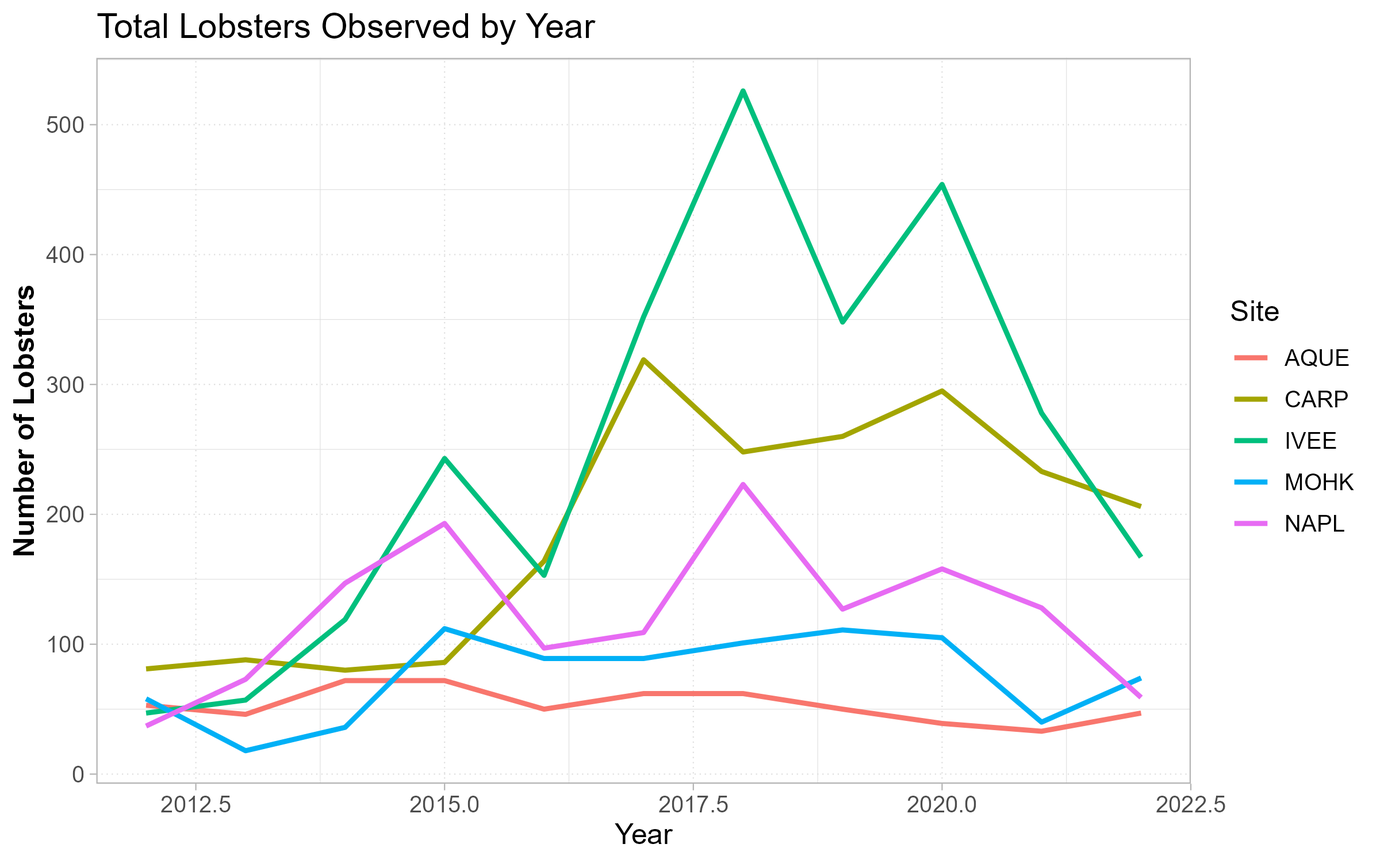
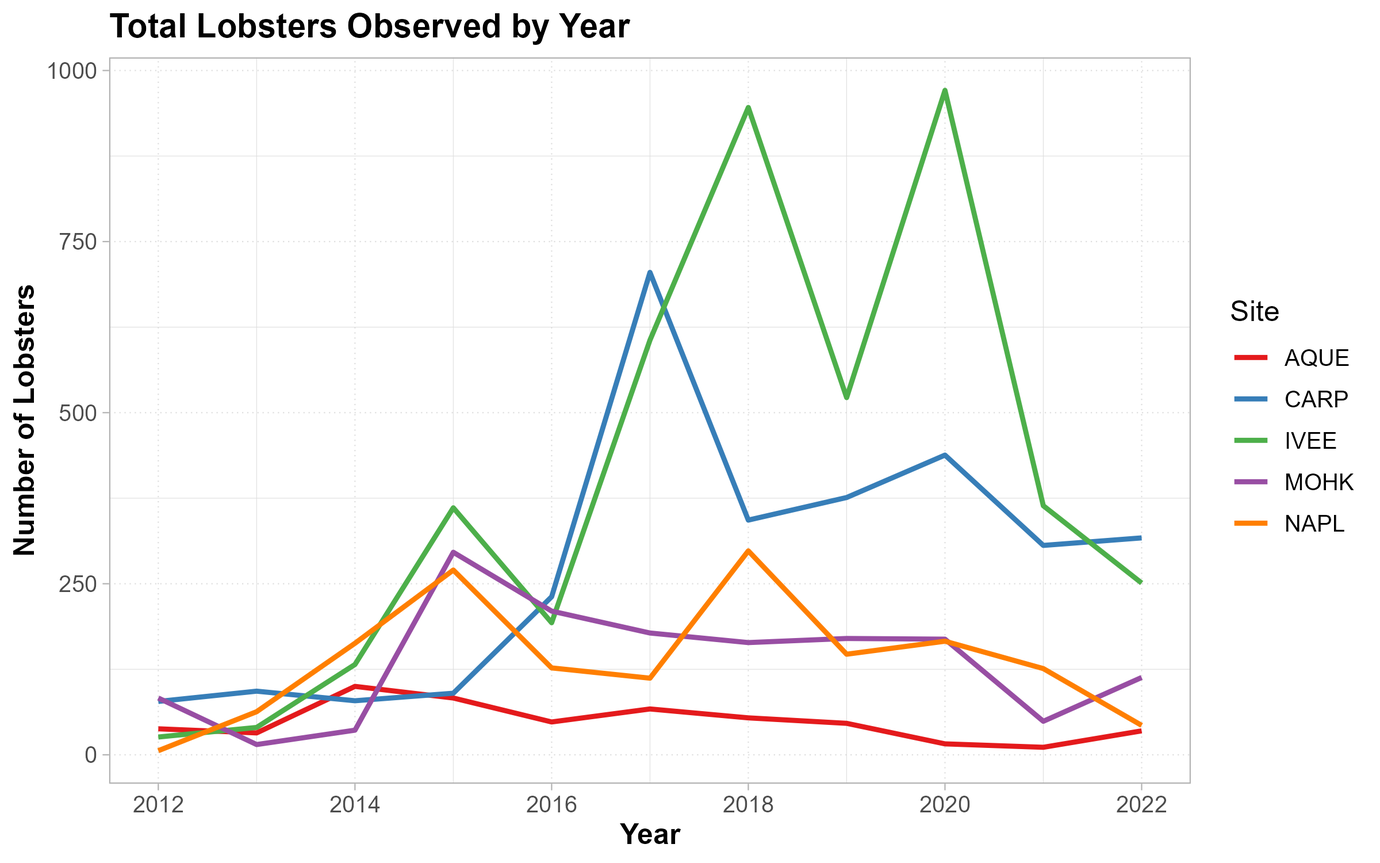
committing owner analysis

diff --git a/analysis/owner-analysis.html b/analysis/owner-analysis.html
@@ -209,68 +209,60 @@ $ AREA      &lt;dbl&gt; 300, 300, 300, 300, 300, 300, 300, 300, 300, 300, 300, 3
 </div>
 <div class="cell">
 <div class="code-copy-outer-scaffold"><div class="sourceCode cell-code" id="cb19"><pre class="sourceCode r code-with-copy"><code class="sourceCode r"><span id="cb19-1"><a href="#cb19-1" aria-hidden="true" tabindex="-1"></a>lobster_abundance <span class="ot">&lt;-</span> lobster_abundance <span class="sc">%&gt;%</span></span>
-<span id="cb19-2"><a href="#cb19-2" aria-hidden="true" tabindex="-1"></a>  <span class="fu">mutate</span>(<span class="at">SIZE_MM =</span> <span class="fu">na_if</span>(SIZE_MM, <span class="sc">-</span><span class="dv">99999</span>))</span></code></pre></div><button title="Copy to Clipboard" class="code-copy-button"><i class="bi"></i></button></div>
+<span id="cb19-2"><a href="#cb19-2" aria-hidden="true" tabindex="-1"></a>  <span class="fu">mutate</span>(<span class="at">SIZE_MM =</span> <span class="fu">na_if</span>(SIZE_MM, <span class="sc">-</span><span class="dv">99999</span>))</span>
+<span id="cb19-3"><a href="#cb19-3" aria-hidden="true" tabindex="-1"></a><span class="fu">unique</span>(lobster_abundance<span class="sc">$</span>SIZE_MM)</span></code></pre></div><button title="Copy to Clipboard" class="code-copy-button"><i class="bi"></i></button></div>
+<div class="cell-output cell-output-stdout">
+<pre><code>  [1]    NA  70.0  60.0  65.0  85.0  67.0  52.0  64.0  58.0  62.0  86.0 105.0
+ [13]  57.0  53.0  56.0  83.0  75.0  90.0  55.0  63.0  72.0  66.0  68.0  87.0
+ [25]  77.0  78.0  80.0  88.0  89.0  95.0  76.0  82.0  61.0  81.0  92.0  74.0
+ [37]  71.0 156.0  98.0  47.0  84.0 110.0  79.0  54.0 108.0  48.0  93.0 100.0
+ [49]  73.0  59.0  97.0  96.0  99.0  69.0  35.0  30.0  45.0  50.0  25.0 102.0
+ [61] 112.0  28.0  38.0 103.0 107.0  40.0  42.0  46.0 118.0 120.0  49.0 122.0
+ [73] 109.0  94.0  51.0  32.0  37.0 115.0 104.0 165.0  70.2  74.5  18.0  43.0
+ [85]  91.0 150.0 101.0  41.0  68.8 106.0 154.0 125.0 155.0 183.0 114.0 111.0
+ [97] 193.0 116.0 113.0 171.0 123.0 160.0 145.0 117.0 124.0 128.0  72.5 132.0
+[109] 135.0 170.0  33.0  44.0 136.0 220.0 141.0 126.0 131.0 130.0 146.0 127.0</code></pre>
+</div>
 </div>
 <div class="cell">
-<div class="code-copy-outer-scaffold"><div class="sourceCode cell-code" id="cb20"><pre class="sourceCode r code-with-copy"><code class="sourceCode r"><span id="cb20-1"><a href="#cb20-1" aria-hidden="true" tabindex="-1"></a>no_napl <span class="ot">&lt;-</span> lobster_abundance <span class="sc">%&gt;%</span></span>
-<span id="cb20-2"><a href="#cb20-2" aria-hidden="true" tabindex="-1"></a>  <span class="fu">filter</span>(SITE <span class="sc">!=</span> <span class="st">"NAPL"</span>)</span>
-<span id="cb20-3"><a href="#cb20-3" aria-hidden="true" tabindex="-1"></a><span class="fu">unique</span>(no_napl<span class="sc">$</span>SITE)</span></code></pre></div><button title="Copy to Clipboard" class="code-copy-button"><i class="bi"></i></button></div>
+<div class="code-copy-outer-scaffold"><div class="sourceCode cell-code" id="cb21"><pre class="sourceCode r code-with-copy"><code class="sourceCode r"><span id="cb21-1"><a href="#cb21-1" aria-hidden="true" tabindex="-1"></a>no_napl <span class="ot">&lt;-</span> lobster_abundance <span class="sc">%&gt;%</span></span>
+<span id="cb21-2"><a href="#cb21-2" aria-hidden="true" tabindex="-1"></a>  <span class="fu">filter</span>(SITE <span class="sc">!=</span> <span class="st">"NAPL"</span>)</span>
+<span id="cb21-3"><a href="#cb21-3" aria-hidden="true" tabindex="-1"></a><span class="fu">unique</span>(no_napl<span class="sc">$</span>SITE)</span></code></pre></div><button title="Copy to Clipboard" class="code-copy-button"><i class="bi"></i></button></div>
 <div class="cell-output cell-output-stdout">
 <pre><code>[1] "IVEE" "AQUE" "CARP" "MOHK"</code></pre>
 </div>
 </div>
 <div class="cell">
-<div class="code-copy-outer-scaffold"><div class="sourceCode cell-code" id="cb22"><pre class="sourceCode r code-with-copy"><code class="sourceCode r"><span id="cb22-1"><a href="#cb22-1" aria-hidden="true" tabindex="-1"></a>aque_large <span class="ot">&lt;-</span> lobster_abundance <span class="sc">%&gt;%</span></span>
-<span id="cb22-2"><a href="#cb22-2" aria-hidden="true" tabindex="-1"></a>  <span class="fu">filter</span>(SITE <span class="sc">==</span> <span class="st">"AQUE"</span>, SIZE_MM <span class="sc">&gt;</span> <span class="dv">70</span>)</span>
-<span id="cb22-3"><a href="#cb22-3" aria-hidden="true" tabindex="-1"></a><span class="fu">summary</span>(aque_large<span class="sc">$</span>SIZE_MM)</span></code></pre></div><button title="Copy to Clipboard" class="code-copy-button"><i class="bi"></i></button></div>
+<div class="code-copy-outer-scaffold"><div class="sourceCode cell-code" id="cb23"><pre class="sourceCode r code-with-copy"><code class="sourceCode r"><span id="cb23-1"><a href="#cb23-1" aria-hidden="true" tabindex="-1"></a>aque_large <span class="ot">&lt;-</span> lobster_abundance <span class="sc">%&gt;%</span></span>
+<span id="cb23-2"><a href="#cb23-2" aria-hidden="true" tabindex="-1"></a>  <span class="fu">filter</span>(SITE <span class="sc">==</span> <span class="st">"AQUE"</span>, SIZE_MM <span class="sc">&gt;</span> <span class="dv">70</span>)</span>
+<span id="cb23-3"><a href="#cb23-3" aria-hidden="true" tabindex="-1"></a><span class="fu">summary</span>(aque_large<span class="sc">$</span>SIZE_MM)</span></code></pre></div><button title="Copy to Clipboard" class="code-copy-button"><i class="bi"></i></button></div>
 <div class="cell-output cell-output-stdout">
 <pre><code>   Min. 1st Qu.  Median    Mean 3rd Qu.    Max. 
   71.00   75.00   80.00   80.41   85.00  109.00 </code></pre>
 </div>
-<div class="code-copy-outer-scaffold"><div class="sourceCode cell-code" id="cb24"><pre class="sourceCode r code-with-copy"><code class="sourceCode r"><span id="cb24-1"><a href="#cb24-1" aria-hidden="true" tabindex="-1"></a><span class="fu">unique</span>(aque_large<span class="sc">$</span>SITE)</span></code></pre></div><button title="Copy to Clipboard" class="code-copy-button"><i class="bi"></i></button></div>
+<div class="code-copy-outer-scaffold"><div class="sourceCode cell-code" id="cb25"><pre class="sourceCode r code-with-copy"><code class="sourceCode r"><span id="cb25-1"><a href="#cb25-1" aria-hidden="true" tabindex="-1"></a><span class="fu">unique</span>(aque_large<span class="sc">$</span>SITE)</span></code></pre></div><button title="Copy to Clipboard" class="code-copy-button"><i class="bi"></i></button></div>
 <div class="cell-output cell-output-stdout">
 <pre><code>[1] "AQUE"</code></pre>
 </div>
 </div>
 <div class="cell">
-<div class="code-copy-outer-scaffold"><div class="sourceCode cell-code" id="cb26"><pre class="sourceCode r code-with-copy"><code class="sourceCode r"><span id="cb26-1"><a href="#cb26-1" aria-hidden="true" tabindex="-1"></a>max_size <span class="ot">&lt;-</span> lobster_abundance <span class="sc">%&gt;%</span></span>
-<span id="cb26-2"><a href="#cb26-2" aria-hidden="true" tabindex="-1"></a>  <span class="fu">group_by</span>(SITE, MONTH) <span class="sc">%&gt;%</span></span>
-<span id="cb26-3"><a href="#cb26-3" aria-hidden="true" tabindex="-1"></a>  <span class="fu">summarise</span>(<span class="at">max_size =</span> <span class="fu">max</span>(SIZE_MM, <span class="at">na.rm =</span> <span class="cn">TRUE</span>))</span></code></pre></div><button title="Copy to Clipboard" class="code-copy-button"><i class="bi"></i></button></div>
-<div class="cell-output cell-output-stderr">
-<pre><code>`summarise()` has regrouped the output.
-ℹ Summaries were computed grouped by SITE and MONTH.
-ℹ Output is grouped by SITE.
-ℹ Use `summarise(.groups = "drop_last")` to silence this message.
-ℹ Use `summarise(.by = c(SITE, MONTH))` for per-operation grouping
-  (`?dplyr::dplyr_by`) instead.</code></pre>
-</div>
-<div class="code-copy-outer-scaffold"><div class="sourceCode cell-code" id="cb28"><pre class="sourceCode r code-with-copy"><code class="sourceCode r"><span id="cb28-1"><a href="#cb28-1" aria-hidden="true" tabindex="-1"></a><span class="fu">head</span>(max_size)</span></code></pre></div><button title="Copy to Clipboard" class="code-copy-button"><i class="bi"></i></button></div>
-<div class="cell-output cell-output-stdout">
-<pre><code># A tibble: 6 × 3
-# Groups:   SITE [4]
-  SITE  MONTH max_size
-  &lt;chr&gt; &lt;dbl&gt;    &lt;dbl&gt;
-1 AQUE      8      109
-2 AQUE      9      100
-3 CARP      8      183
-4 IVEE      8      193
-5 IVEE      9      107
-6 MOHK      8      110</code></pre>
-</div>
+<div class="code-copy-outer-scaffold"><div class="sourceCode cell-code" id="cb27"><pre class="sourceCode r code-with-copy"><code class="sourceCode r"><span id="cb27-1"><a href="#cb27-1" aria-hidden="true" tabindex="-1"></a>max_size <span class="ot">&lt;-</span> lobster_abundance <span class="sc">%&gt;%</span></span>
+<span id="cb27-2"><a href="#cb27-2" aria-hidden="true" tabindex="-1"></a>  <span class="fu">group_by</span>(SITE, MONTH) <span class="sc">%&gt;%</span></span>
+<span id="cb27-3"><a href="#cb27-3" aria-hidden="true" tabindex="-1"></a>  <span class="fu">summarise</span>(<span class="at">max_size =</span> <span class="fu">max</span>(SIZE_MM, <span class="at">na.rm =</span> <span class="cn">TRUE</span>), <span class="at">.groups =</span> <span class="st">"drop"</span>)</span></code></pre></div><button title="Copy to Clipboard" class="code-copy-button"><i class="bi"></i></button></div>
 </div>
 </section>
 <section id="exercise-data-visualization" class="level2">
 <h2 class="anchored" data-anchor-id="exercise-data-visualization">Exercise: Data Visualization</h2>
 <div class="cell">
-<div class="code-copy-outer-scaffold"><div class="sourceCode cell-code" id="cb30"><pre class="sourceCode r code-with-copy"><code class="sourceCode r"><span id="cb30-1"><a href="#cb30-1" aria-hidden="true" tabindex="-1"></a><span class="do">## Run this chunk to test exercises ##</span></span>
-<span id="cb30-2"><a href="#cb30-2" aria-hidden="true" tabindex="-1"></a></span>
-<span id="cb30-3"><a href="#cb30-3" aria-hidden="true" tabindex="-1"></a><span class="fu">library</span>(readr)</span>
-<span id="cb30-4"><a href="#cb30-4" aria-hidden="true" tabindex="-1"></a><span class="fu">library</span>(dplyr)</span>
-<span id="cb30-5"><a href="#cb30-5" aria-hidden="true" tabindex="-1"></a><span class="fu">library</span>(ggplot2)</span>
-<span id="cb30-6"><a href="#cb30-6" aria-hidden="true" tabindex="-1"></a><span class="fu">library</span>(tidyr)</span>
-<span id="cb30-7"><a href="#cb30-7" aria-hidden="true" tabindex="-1"></a></span>
-<span id="cb30-8"><a href="#cb30-8" aria-hidden="true" tabindex="-1"></a>lobster_abundance <span class="ot">&lt;-</span> <span class="fu">read_csv</span>(<span class="st">"../data/Lobster_Abundance_All_Years_20220829.csv"</span>) <span class="sc">%&gt;%</span></span>
-<span id="cb30-9"><a href="#cb30-9" aria-hidden="true" tabindex="-1"></a>  <span class="fu">mutate</span>(<span class="at">SIZE_MM =</span> <span class="fu">na_if</span>(SIZE_MM, <span class="sc">-</span><span class="dv">99999</span>))</span></code></pre></div><button title="Copy to Clipboard" class="code-copy-button"><i class="bi"></i></button></div>
+<div class="code-copy-outer-scaffold"><div class="sourceCode cell-code" id="cb28"><pre class="sourceCode r code-with-copy"><code class="sourceCode r"><span id="cb28-1"><a href="#cb28-1" aria-hidden="true" tabindex="-1"></a><span class="do">## Run this chunk to test exercises ##</span></span>
+<span id="cb28-2"><a href="#cb28-2" aria-hidden="true" tabindex="-1"></a></span>
+<span id="cb28-3"><a href="#cb28-3" aria-hidden="true" tabindex="-1"></a><span class="fu">library</span>(readr)</span>
+<span id="cb28-4"><a href="#cb28-4" aria-hidden="true" tabindex="-1"></a><span class="fu">library</span>(dplyr)</span>
+<span id="cb28-5"><a href="#cb28-5" aria-hidden="true" tabindex="-1"></a><span class="fu">library</span>(ggplot2)</span>
+<span id="cb28-6"><a href="#cb28-6" aria-hidden="true" tabindex="-1"></a><span class="fu">library</span>(tidyr)</span>
+<span id="cb28-7"><a href="#cb28-7" aria-hidden="true" tabindex="-1"></a></span>
+<span id="cb28-8"><a href="#cb28-8" aria-hidden="true" tabindex="-1"></a>lobster_abundance <span class="ot">&lt;-</span> <span class="fu">read_csv</span>(<span class="st">"../data/Lobster_Abundance_All_Years_20220829.csv"</span>) <span class="sc">%&gt;%</span></span>
+<span id="cb28-9"><a href="#cb28-9" aria-hidden="true" tabindex="-1"></a>  <span class="fu">mutate</span>(<span class="at">SIZE_MM =</span> <span class="fu">na_if</span>(SIZE_MM, <span class="sc">-</span><span class="dv">99999</span>))</span></code></pre></div><button title="Copy to Clipboard" class="code-copy-button"><i class="bi"></i></button></div>
 <div class="cell-output cell-output-stderr">
 <pre><code>Rows: 7574 Columns: 10
 ── Column specification ────────────────────────────────────────────────────────
@@ -284,10 +276,10 @@ date (1): DATE
 </div>
 </div>
 <div class="cell">
-<div class="code-copy-outer-scaffold"><div class="sourceCode cell-code" id="cb32"><pre class="sourceCode r code-with-copy"><code class="sourceCode r"><span id="cb32-1"><a href="#cb32-1" aria-hidden="true" tabindex="-1"></a>hist_plot <span class="ot">&lt;-</span> <span class="fu">ggplot</span>(lobster_abundance, <span class="fu">aes</span>(<span class="at">x =</span> SIZE_MM)) <span class="sc">+</span></span>
-<span id="cb32-2"><a href="#cb32-2" aria-hidden="true" tabindex="-1"></a>  <span class="fu">geom_histogram</span>(<span class="at">binwidth =</span> <span class="dv">5</span>) <span class="sc">+</span></span>
-<span id="cb32-3"><a href="#cb32-3" aria-hidden="true" tabindex="-1"></a>  <span class="fu">facet_wrap</span>(<span class="sc">~</span> SITE)</span>
-<span id="cb32-4"><a href="#cb32-4" aria-hidden="true" tabindex="-1"></a><span class="fu">print</span>(hist_plot)</span></code></pre></div><button title="Copy to Clipboard" class="code-copy-button"><i class="bi"></i></button></div>
+<div class="code-copy-outer-scaffold"><div class="sourceCode cell-code" id="cb30"><pre class="sourceCode r code-with-copy"><code class="sourceCode r"><span id="cb30-1"><a href="#cb30-1" aria-hidden="true" tabindex="-1"></a>hist_plot <span class="ot">&lt;-</span> <span class="fu">ggplot</span>(lobster_abundance, <span class="fu">aes</span>(<span class="at">x =</span> SIZE_MM)) <span class="sc">+</span></span>
+<span id="cb30-2"><a href="#cb30-2" aria-hidden="true" tabindex="-1"></a>  <span class="fu">geom_histogram</span>(<span class="at">binwidth =</span> <span class="dv">5</span>) <span class="sc">+</span></span>
+<span id="cb30-3"><a href="#cb30-3" aria-hidden="true" tabindex="-1"></a>  <span class="fu">facet_wrap</span>(<span class="sc">~</span> SITE)</span>
+<span id="cb30-4"><a href="#cb30-4" aria-hidden="true" tabindex="-1"></a><span class="fu">print</span>(hist_plot)</span></code></pre></div><button title="Copy to Clipboard" class="code-copy-button"><i class="bi"></i></button></div>
 <div class="cell-output cell-output-stderr">
 <pre><code>Warning: Removed 518 rows containing non-finite outside the scale range
 (`stat_bin()`).</code></pre>
@@ -299,11 +291,16 @@ date (1): DATE
 </figure>
 </div>
 </div>
+<div class="code-copy-outer-scaffold"><div class="sourceCode cell-code" id="cb32"><pre class="sourceCode r code-with-copy"><code class="sourceCode r"><span id="cb32-1"><a href="#cb32-1" aria-hidden="true" tabindex="-1"></a> <span class="fu">labs</span>(<span class="at">title =</span> <span class="st">"Distribution of Lobster Sizes by Site"</span>)</span></code></pre></div><button title="Copy to Clipboard" class="code-copy-button"><i class="bi"></i></button></div>
+<div class="cell-output cell-output-stdout">
+<pre><code>&lt;ggplot2::labels&gt; List of 1
+ $ title: chr "Distribution of Lobster Sizes by Site"</code></pre>
+</div>
 </div>
 <div class="cell">
 <div class="code-copy-outer-scaffold"><div class="sourceCode cell-code" id="cb34"><pre class="sourceCode r code-with-copy"><code class="sourceCode r"><span id="cb34-1"><a href="#cb34-1" aria-hidden="true" tabindex="-1"></a>lobster_yearly <span class="ot">&lt;-</span> lobster_abundance <span class="sc">%&gt;%</span></span>
 <span id="cb34-2"><a href="#cb34-2" aria-hidden="true" tabindex="-1"></a>  <span class="fu">group_by</span>(YEAR, SITE) <span class="sc">%&gt;%</span></span>
-<span id="cb34-3"><a href="#cb34-3" aria-hidden="true" tabindex="-1"></a>  <span class="fu">summarise</span>(<span class="at">total_lobsters =</span> <span class="fu">n</span>(), <span class="at">.groups =</span> <span class="st">"drop"</span>)</span>
+<span id="cb34-3"><a href="#cb34-3" aria-hidden="true" tabindex="-1"></a>  <span class="fu">summarise</span>(<span class="at">total_lobsters =</span> <span class="fu">sum</span>(COUNT, <span class="at">na.rm =</span> <span class="cn">TRUE</span>), <span class="at">.groups =</span> <span class="st">"drop"</span>)</span>
 <span id="cb34-4"><a href="#cb34-4" aria-hidden="true" tabindex="-1"></a></span>
 <span id="cb34-5"><a href="#cb34-5" aria-hidden="true" tabindex="-1"></a>line_plot <span class="ot">&lt;-</span> <span class="fu">ggplot</span>(lobster_yearly, <span class="fu">aes</span>(<span class="at">x =</span> YEAR, <span class="at">y =</span> total_lobsters, <span class="at">color =</span> SITE)) <span class="sc">+</span></span>
 <span id="cb34-6"><a href="#cb34-6" aria-hidden="true" tabindex="-1"></a>  <span class="fu">geom_line</span>()</span>
@@ -318,9 +315,18 @@ date (1): DATE
 </div>
 </div>
 <div class="cell">
-<div class="code-copy-outer-scaffold"><div class="sourceCode cell-code" id="cb35"><pre class="sourceCode r code-with-copy"><code class="sourceCode r"><span id="cb35-1"><a href="#cb35-1" aria-hidden="true" tabindex="-1"></a>line_plot <span class="ot">&lt;-</span> <span class="fu">ggplot</span>(lobster_yearly, <span class="fu">aes</span>(<span class="at">x =</span> YEAR, <span class="at">y =</span> total_lobsters, <span class="at">color =</span> SITE)) <span class="sc">+</span></span>
-<span id="cb35-2"><a href="#cb35-2" aria-hidden="true" tabindex="-1"></a>  <span class="fu">geom_line</span>()</span>
-<span id="cb35-3"><a href="#cb35-3" aria-hidden="true" tabindex="-1"></a><span class="fu">print</span>(line_plot)</span></code></pre></div><button title="Copy to Clipboard" class="code-copy-button"><i class="bi"></i></button></div>
+<div class="code-copy-outer-scaffold"><div class="sourceCode cell-code" id="cb35"><pre class="sourceCode r code-with-copy"><code class="sourceCode r"><span id="cb35-1"><a href="#cb35-1" aria-hidden="true" tabindex="-1"></a>lobster_size <span class="ot">&lt;-</span> lobster_abundance <span class="sc">%&gt;%</span></span>
+<span id="cb35-2"><a href="#cb35-2" aria-hidden="true" tabindex="-1"></a>  <span class="fu">filter</span>(YEAR <span class="sc">%in%</span> <span class="fu">c</span>(<span class="dv">2019</span>, <span class="dv">2020</span>, <span class="dv">2021</span>)) <span class="sc">%&gt;%</span></span>
+<span id="cb35-3"><a href="#cb35-3" aria-hidden="true" tabindex="-1"></a>  <span class="fu">mutate</span>(<span class="at">size_category =</span> <span class="fu">ifelse</span>(SIZE_MM <span class="sc">&lt;</span> <span class="dv">70</span>, <span class="st">"Small"</span>, <span class="st">"Large"</span>))</span>
+<span id="cb35-4"><a href="#cb35-4" aria-hidden="true" tabindex="-1"></a></span>
+<span id="cb35-5"><a href="#cb35-5" aria-hidden="true" tabindex="-1"></a>lobster_counts <span class="ot">&lt;-</span> lobster_size <span class="sc">%&gt;%</span></span>
+<span id="cb35-6"><a href="#cb35-6" aria-hidden="true" tabindex="-1"></a>  <span class="fu">group_by</span>(SITE, size_category) <span class="sc">%&gt;%</span></span>
+<span id="cb35-7"><a href="#cb35-7" aria-hidden="true" tabindex="-1"></a>  <span class="fu">summarise</span>(<span class="at">count =</span> <span class="fu">sum</span>(COUNT, <span class="at">na.rm =</span> <span class="cn">TRUE</span>), <span class="at">.groups =</span> <span class="st">"drop"</span>)</span>
+<span id="cb35-8"><a href="#cb35-8" aria-hidden="true" tabindex="-1"></a></span>
+<span id="cb35-9"><a href="#cb35-9" aria-hidden="true" tabindex="-1"></a>bar_plot <span class="ot">&lt;-</span> <span class="fu">ggplot</span>(lobster_counts, <span class="fu">aes</span>(<span class="at">x =</span> SITE, <span class="at">y =</span> count, <span class="at">fill =</span> size_category)) <span class="sc">+</span></span>
+<span id="cb35-10"><a href="#cb35-10" aria-hidden="true" tabindex="-1"></a>  <span class="fu">geom_col</span>(<span class="at">position =</span> <span class="st">"dodge"</span>)</span>
+<span id="cb35-11"><a href="#cb35-11" aria-hidden="true" tabindex="-1"></a></span>
+<span id="cb35-12"><a href="#cb35-12" aria-hidden="true" tabindex="-1"></a><span class="fu">print</span>(bar_plot)</span></code></pre></div><button title="Copy to Clipboard" class="code-copy-button"><i class="bi"></i></button></div>
 <div class="cell-output-display">
 <div>
 <figure class="figure">
@@ -330,18 +336,10 @@ date (1): DATE
 </div>
 </div>
 <div class="cell">
-<div class="code-copy-outer-scaffold"><div class="sourceCode cell-code" id="cb36"><pre class="sourceCode r code-with-copy"><code class="sourceCode r"><span id="cb36-1"><a href="#cb36-1" aria-hidden="true" tabindex="-1"></a>lobster_size <span class="ot">&lt;-</span> lobster_abundance <span class="sc">%&gt;%</span></span>
-<span id="cb36-2"><a href="#cb36-2" aria-hidden="true" tabindex="-1"></a>  <span class="fu">filter</span>(YEAR <span class="sc">%in%</span> <span class="fu">c</span>(<span class="dv">2019</span>, <span class="dv">2020</span>, <span class="dv">2021</span>)) <span class="sc">%&gt;%</span></span>
-<span id="cb36-3"><a href="#cb36-3" aria-hidden="true" tabindex="-1"></a>  <span class="fu">mutate</span>(<span class="at">size_category =</span> <span class="fu">ifelse</span>(SIZE_MM <span class="sc">&lt;</span> <span class="dv">70</span>, <span class="st">"Small"</span>, <span class="st">"Large"</span>))</span>
-<span id="cb36-4"><a href="#cb36-4" aria-hidden="true" tabindex="-1"></a></span>
-<span id="cb36-5"><a href="#cb36-5" aria-hidden="true" tabindex="-1"></a>lobster_counts <span class="ot">&lt;-</span> lobster_size <span class="sc">%&gt;%</span></span>
-<span id="cb36-6"><a href="#cb36-6" aria-hidden="true" tabindex="-1"></a>  <span class="fu">group_by</span>(SITE, size_category) <span class="sc">%&gt;%</span></span>
-<span id="cb36-7"><a href="#cb36-7" aria-hidden="true" tabindex="-1"></a>  <span class="fu">summarise</span>(<span class="at">count =</span> <span class="fu">n</span>(), <span class="at">.groups =</span> <span class="st">"drop"</span>)</span>
-<span id="cb36-8"><a href="#cb36-8" aria-hidden="true" tabindex="-1"></a></span>
-<span id="cb36-9"><a href="#cb36-9" aria-hidden="true" tabindex="-1"></a>bar_plot <span class="ot">&lt;-</span> <span class="fu">ggplot</span>(lobster_counts, <span class="fu">aes</span>(<span class="at">x =</span> SITE, <span class="at">y =</span> count, <span class="at">fill =</span> size_category)) <span class="sc">+</span></span>
-<span id="cb36-10"><a href="#cb36-10" aria-hidden="true" tabindex="-1"></a>  <span class="fu">geom_col</span>(<span class="at">position =</span> <span class="st">"dodge"</span>)</span>
-<span id="cb36-11"><a href="#cb36-11" aria-hidden="true" tabindex="-1"></a></span>
-<span id="cb36-12"><a href="#cb36-12" aria-hidden="true" tabindex="-1"></a><span class="fu">print</span>(bar_plot)</span></code></pre></div><button title="Copy to Clipboard" class="code-copy-button"><i class="bi"></i></button></div>
+<div class="code-copy-outer-scaffold"><div class="sourceCode cell-code" id="cb36"><pre class="sourceCode r code-with-copy"><code class="sourceCode r"><span id="cb36-1"><a href="#cb36-1" aria-hidden="true" tabindex="-1"></a>bar_plot <span class="ot">&lt;-</span> <span class="fu">ggplot</span>(lobster_counts, <span class="fu">aes</span>(<span class="at">x =</span> SITE, <span class="at">y =</span> count, <span class="at">fill =</span> size_category)) <span class="sc">+</span></span>
+<span id="cb36-2"><a href="#cb36-2" aria-hidden="true" tabindex="-1"></a>  <span class="fu">geom_col</span>(<span class="at">position =</span> <span class="st">"dodge"</span>)</span>
+<span id="cb36-3"><a href="#cb36-3" aria-hidden="true" tabindex="-1"></a></span>
+<span id="cb36-4"><a href="#cb36-4" aria-hidden="true" tabindex="-1"></a><span class="fu">print</span>(bar_plot)</span></code></pre></div><button title="Copy to Clipboard" class="code-copy-button"><i class="bi"></i></button></div>
 <div class="cell-output-display">
 <div>
 <figure class="figure">
@@ -351,13 +349,26 @@ date (1): DATE
 </div>
 </div>
 <div class="cell">
-<div class="code-copy-outer-scaffold"><div class="sourceCode cell-code" id="cb37"><pre class="sourceCode r code-with-copy"><code class="sourceCode r"><span id="cb37-1"><a href="#cb37-1" aria-hidden="true" tabindex="-1"></a>lobster_counts <span class="ot">&lt;-</span> lobster_size <span class="sc">%&gt;%</span></span>
-<span id="cb37-2"><a href="#cb37-2" aria-hidden="true" tabindex="-1"></a>  <span class="fu">group_by</span>(SITE, size_category) <span class="sc">%&gt;%</span></span>
-<span id="cb37-3"><a href="#cb37-3" aria-hidden="true" tabindex="-1"></a>  <span class="fu">summarise</span>(<span class="at">count =</span> <span class="fu">n</span>(), <span class="at">.groups =</span> <span class="st">"drop"</span>)</span>
-<span id="cb37-4"><a href="#cb37-4" aria-hidden="true" tabindex="-1"></a>bar_plot <span class="ot">&lt;-</span> <span class="fu">ggplot</span>(lobster_counts, <span class="fu">aes</span>(<span class="at">x =</span> SITE, <span class="at">y =</span> count, <span class="at">fill =</span> size_category)) <span class="sc">+</span></span>
-<span id="cb37-5"><a href="#cb37-5" aria-hidden="true" tabindex="-1"></a>  <span class="fu">geom_col</span>(<span class="at">position =</span> <span class="st">"dodge"</span>)</span>
-<span id="cb37-6"><a href="#cb37-6" aria-hidden="true" tabindex="-1"></a></span>
-<span id="cb37-7"><a href="#cb37-7" aria-hidden="true" tabindex="-1"></a><span class="fu">print</span>(bar_plot)</span></code></pre></div><button title="Copy to Clipboard" class="code-copy-button"><i class="bi"></i></button></div>
+<div class="code-copy-outer-scaffold"><div class="sourceCode cell-code" id="cb37"><pre class="sourceCode r code-with-copy"><code class="sourceCode r"><span id="cb37-1"><a href="#cb37-1" aria-hidden="true" tabindex="-1"></a>pretty_line_plot <span class="ot">&lt;-</span> <span class="fu">ggplot</span>(lobster_yearly, <span class="fu">aes</span>(<span class="at">x =</span> YEAR, <span class="at">y =</span> total_lobsters, <span class="at">color =</span> SITE)) <span class="sc">+</span></span>
+<span id="cb37-2"><a href="#cb37-2" aria-hidden="true" tabindex="-1"></a>  <span class="fu">geom_line</span>(<span class="at">linewidth =</span> <span class="dv">1</span>) <span class="sc">+</span></span>
+<span id="cb37-3"><a href="#cb37-3" aria-hidden="true" tabindex="-1"></a>  <span class="fu">labs</span>(</span>
+<span id="cb37-4"><a href="#cb37-4" aria-hidden="true" tabindex="-1"></a>    <span class="at">title =</span> <span class="st">"Total Lobsters Observed by Year"</span>,</span>
+<span id="cb37-5"><a href="#cb37-5" aria-hidden="true" tabindex="-1"></a>    <span class="at">x =</span> <span class="st">"Year"</span>,</span>
+<span id="cb37-6"><a href="#cb37-6" aria-hidden="true" tabindex="-1"></a>    <span class="at">y =</span> <span class="st">"Number of Lobsters"</span>,</span>
+<span id="cb37-7"><a href="#cb37-7" aria-hidden="true" tabindex="-1"></a>    <span class="at">color =</span> <span class="st">"Site"</span></span>
+<span id="cb37-8"><a href="#cb37-8" aria-hidden="true" tabindex="-1"></a>  ) <span class="sc">+</span></span>
+<span id="cb37-9"><a href="#cb37-9" aria-hidden="true" tabindex="-1"></a> <span class="fu">scale_x_continuous</span>(<span class="at">breaks =</span> <span class="fu">seq</span>(<span class="dv">2000</span>, <span class="dv">2022</span>, <span class="at">by =</span> <span class="dv">2</span>)) <span class="sc">+</span></span>
+<span id="cb37-10"><a href="#cb37-10" aria-hidden="true" tabindex="-1"></a>  <span class="fu">scale_color_brewer</span>(<span class="at">palette =</span> <span class="st">"Set1"</span>) <span class="sc">+</span></span>
+<span id="cb37-11"><a href="#cb37-11" aria-hidden="true" tabindex="-1"></a>  <span class="fu">theme_light</span>() <span class="sc">+</span></span>
+<span id="cb37-12"><a href="#cb37-12" aria-hidden="true" tabindex="-1"></a>  <span class="fu">theme</span>(</span>
+<span id="cb37-13"><a href="#cb37-13" aria-hidden="true" tabindex="-1"></a>    <span class="at">text =</span> <span class="fu">element_text</span>(<span class="at">size =</span> <span class="dv">12</span>),</span>
+<span id="cb37-14"><a href="#cb37-14" aria-hidden="true" tabindex="-1"></a>    <span class="at">axis.title =</span> <span class="fu">element_text</span>(<span class="at">face =</span> <span class="st">"bold"</span>),</span>
+<span id="cb37-15"><a href="#cb37-15" aria-hidden="true" tabindex="-1"></a>    <span class="at">plot.title =</span> <span class="fu">element_text</span>(<span class="at">face =</span> <span class="st">"bold"</span>, <span class="at">size =</span> <span class="dv">14</span>),</span>
+<span id="cb37-16"><a href="#cb37-16" aria-hidden="true" tabindex="-1"></a>    <span class="at">panel.grid.major =</span> <span class="fu">element_line</span>(<span class="at">linetype =</span> <span class="st">"dotted"</span>),</span>
+<span id="cb37-17"><a href="#cb37-17" aria-hidden="true" tabindex="-1"></a>    <span class="at">panel.background =</span> <span class="fu">element_rect</span>(<span class="at">fill =</span> <span class="st">"white"</span>)</span>
+<span id="cb37-18"><a href="#cb37-18" aria-hidden="true" tabindex="-1"></a>  )</span>
+<span id="cb37-19"><a href="#cb37-19" aria-hidden="true" tabindex="-1"></a></span>
+<span id="cb37-20"><a href="#cb37-20" aria-hidden="true" tabindex="-1"></a>pretty_line_plot</span></code></pre></div><button title="Copy to Clipboard" class="code-copy-button"><i class="bi"></i></button></div>
 <div class="cell-output-display">
 <div>
 <figure class="figure">
@@ -365,27 +376,11 @@ date (1): DATE
 </figure>
 </div>
 </div>
-</div>
-<div class="cell">
-<div class="code-copy-outer-scaffold"><div class="sourceCode cell-code" id="cb38"><pre class="sourceCode r code-with-copy"><code class="sourceCode r"><span id="cb38-1"><a href="#cb38-1" aria-hidden="true" tabindex="-1"></a>pretty_line_plot <span class="ot">&lt;-</span> <span class="fu">ggplot</span>(lobster_yearly, <span class="fu">aes</span>(<span class="at">x =</span> YEAR, <span class="at">y =</span> total_lobsters, <span class="at">color =</span> SITE)) <span class="sc">+</span></span>
-<span id="cb38-2"><a href="#cb38-2" aria-hidden="true" tabindex="-1"></a>  <span class="fu">geom_line</span>(<span class="at">linewidth =</span> <span class="dv">1</span>) <span class="sc">+</span></span>
-<span id="cb38-3"><a href="#cb38-3" aria-hidden="true" tabindex="-1"></a>  <span class="fu">labs</span>(</span>
-<span id="cb38-4"><a href="#cb38-4" aria-hidden="true" tabindex="-1"></a>    <span class="at">title =</span> <span class="st">"Total Lobsters Observed by Year"</span>,</span>
-<span id="cb38-5"><a href="#cb38-5" aria-hidden="true" tabindex="-1"></a>    <span class="at">x =</span> <span class="st">"Year"</span>,</span>
-<span id="cb38-6"><a href="#cb38-6" aria-hidden="true" tabindex="-1"></a>    <span class="at">y =</span> <span class="st">"Number of Lobsters"</span>,</span>
-<span id="cb38-7"><a href="#cb38-7" aria-hidden="true" tabindex="-1"></a>    <span class="at">color =</span> <span class="st">"Site"</span></span>
-<span id="cb38-8"><a href="#cb38-8" aria-hidden="true" tabindex="-1"></a>  ) <span class="sc">+</span></span>
-<span id="cb38-9"><a href="#cb38-9" aria-hidden="true" tabindex="-1"></a>  <span class="fu">theme_light</span>() <span class="sc">+</span></span>
-<span id="cb38-10"><a href="#cb38-10" aria-hidden="true" tabindex="-1"></a>  <span class="fu">theme</span>(</span>
-<span id="cb38-11"><a href="#cb38-11" aria-hidden="true" tabindex="-1"></a>    <span class="at">text =</span> <span class="fu">element_text</span>(<span class="at">size =</span> <span class="dv">12</span>),</span>
-<span id="cb38-12"><a href="#cb38-12" aria-hidden="true" tabindex="-1"></a>    <span class="at">axis.title.y =</span> <span class="fu">element_text</span>(<span class="at">face =</span> <span class="st">"bold"</span>),</span>
-<span id="cb38-13"><a href="#cb38-13" aria-hidden="true" tabindex="-1"></a>    <span class="at">panel.grid.major =</span> <span class="fu">element_line</span>(<span class="at">linetype =</span> <span class="st">"dotted"</span>)</span>
-<span id="cb38-14"><a href="#cb38-14" aria-hidden="true" tabindex="-1"></a>  )</span>
-<span id="cb38-15"><a href="#cb38-15" aria-hidden="true" tabindex="-1"></a><span class="fu">print</span>(pretty_line_plot)</span></code></pre></div><button title="Copy to Clipboard" class="code-copy-button"><i class="bi"></i></button></div>
+<div class="code-copy-outer-scaffold"><div class="sourceCode cell-code" id="cb38"><pre class="sourceCode r code-with-copy"><code class="sourceCode r"><span id="cb38-1"><a href="#cb38-1" aria-hidden="true" tabindex="-1"></a><span class="fu">print</span>(pretty_line_plot)</span></code></pre></div><button title="Copy to Clipboard" class="code-copy-button"><i class="bi"></i></button></div>
 <div class="cell-output-display">
 <div>
 <figure class="figure">
-<p><img src="owner-analysis_files/figure-html/unnamed-chunk-14-1.png" class="img-fluid figure-img" width="672"></p>
+<p><img src="owner-analysis_files/figure-html/unnamed-chunk-13-2.png" class="img-fluid figure-img" width="672"></p>
 </figure>
 </div>
 </div>
@@ -403,6 +398,26 @@ date (1): DATE
 <div class="code-copy-outer-scaffold"><div class="sourceCode cell-code" id="cb40"><pre class="sourceCode r code-with-copy"><code class="sourceCode r"><span id="cb40-1"><a href="#cb40-1" aria-hidden="true" tabindex="-1"></a><span class="fu">list.files</span>(<span class="st">"figs"</span>)</span></code></pre></div><button title="Copy to Clipboard" class="code-copy-button"><i class="bi"></i></button></div>
 <div class="cell-output cell-output-stdout">
 <pre><code>[1] "lobster_line_plot.png"</code></pre>
+</div>
+</div>
+<div class="cell">
+<div class="code-copy-outer-scaffold"><div class="sourceCode cell-code" id="cb42"><pre class="sourceCode r code-with-copy"><code class="sourceCode r"><span id="cb42-1"><a href="#cb42-1" aria-hidden="true" tabindex="-1"></a>lobster_mpa <span class="ot">&lt;-</span> lobster_abundance <span class="sc">%&gt;%</span> </span>
+<span id="cb42-2"><a href="#cb42-2" aria-hidden="true" tabindex="-1"></a>  <span class="fu">mutate</span>(<span class="at">DESIGNATION =</span> <span class="fu">case_when</span>(</span>
+<span id="cb42-3"><a href="#cb42-3" aria-hidden="true" tabindex="-1"></a>    SITE <span class="sc">%in%</span> <span class="fu">c</span>(<span class="st">"IVEE"</span>, <span class="st">"NAPL"</span>) <span class="sc">~</span> <span class="st">"MPA"</span>,</span>
+<span id="cb42-4"><a href="#cb42-4" aria-hidden="true" tabindex="-1"></a>    <span class="cn">TRUE</span> <span class="sc">~</span> <span class="st">"not MPA"</span></span>
+<span id="cb42-5"><a href="#cb42-5" aria-hidden="true" tabindex="-1"></a>  ))</span>
+<span id="cb42-6"><a href="#cb42-6" aria-hidden="true" tabindex="-1"></a><span class="fu">head</span>(lobster_mpa)</span></code></pre></div><button title="Copy to Clipboard" class="code-copy-button"><i class="bi"></i></button></div>
+<div class="cell-output cell-output-stdout">
+<pre><code># A tibble: 6 × 11
+   YEAR MONTH DATE       SITE  TRANSECT REPLICATE SIZE_MM COUNT NUM_AO  AREA
+  &lt;dbl&gt; &lt;dbl&gt; &lt;date&gt;     &lt;chr&gt;    &lt;dbl&gt; &lt;chr&gt;       &lt;dbl&gt; &lt;dbl&gt;  &lt;dbl&gt; &lt;dbl&gt;
+1  2012     8 2012-08-20 IVEE         1 A              NA     0      0   300
+2  2012     8 2012-08-20 IVEE         1 B              NA     0      0   300
+3  2012     8 2012-08-20 IVEE         1 C              NA     0      0   300
+4  2012     8 2012-08-20 IVEE         1 D              NA     0      0   300
+5  2012     8 2012-08-20 IVEE         2 A              NA     0      0   300
+6  2012     8 2012-08-20 IVEE         2 B              NA     0      0   300
+# ℹ 1 more variable: DESIGNATION &lt;chr&gt;</code></pre>
 </div>
 </div>
 </section>
